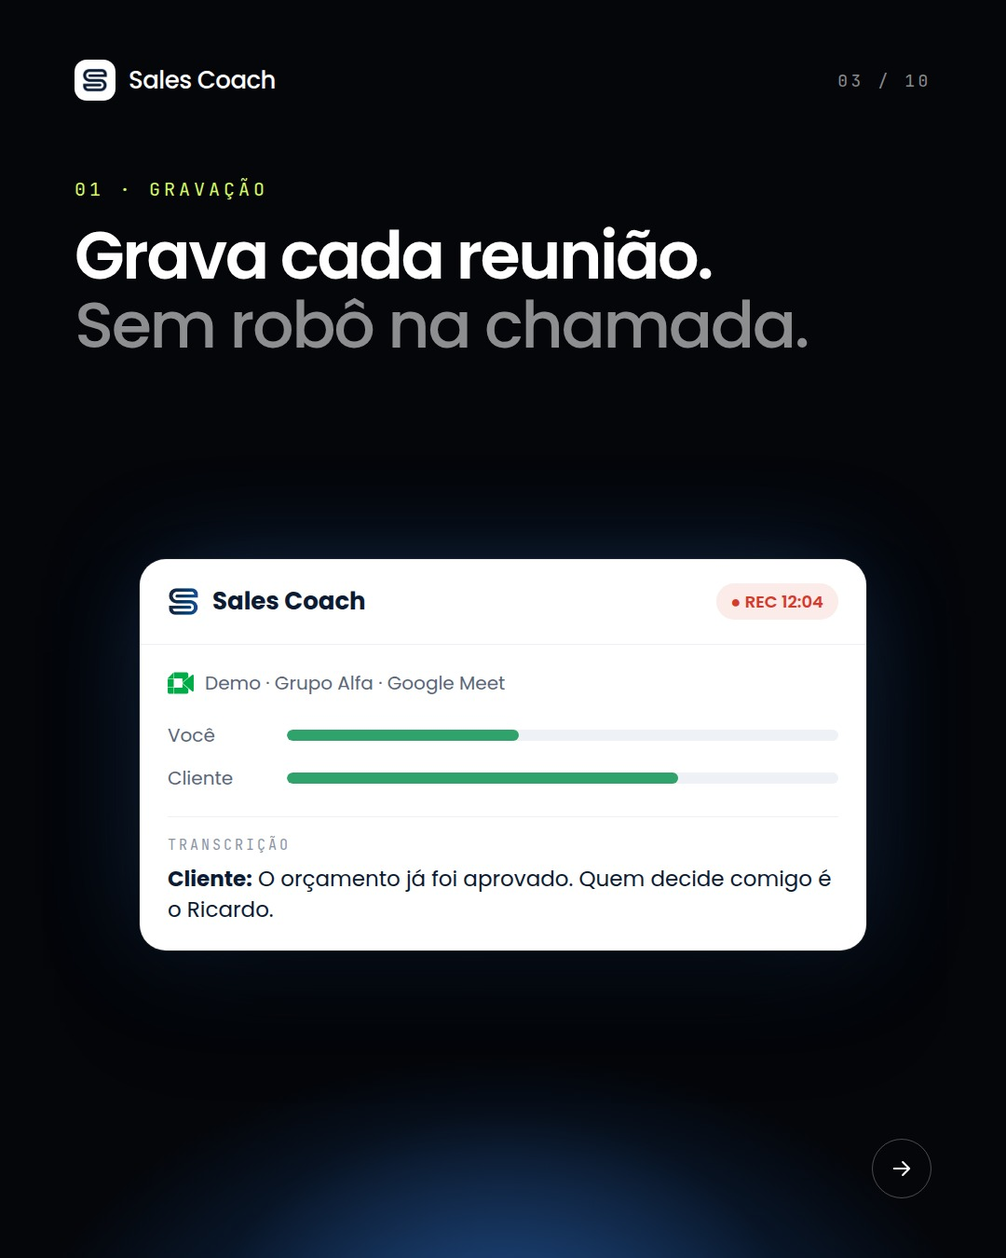
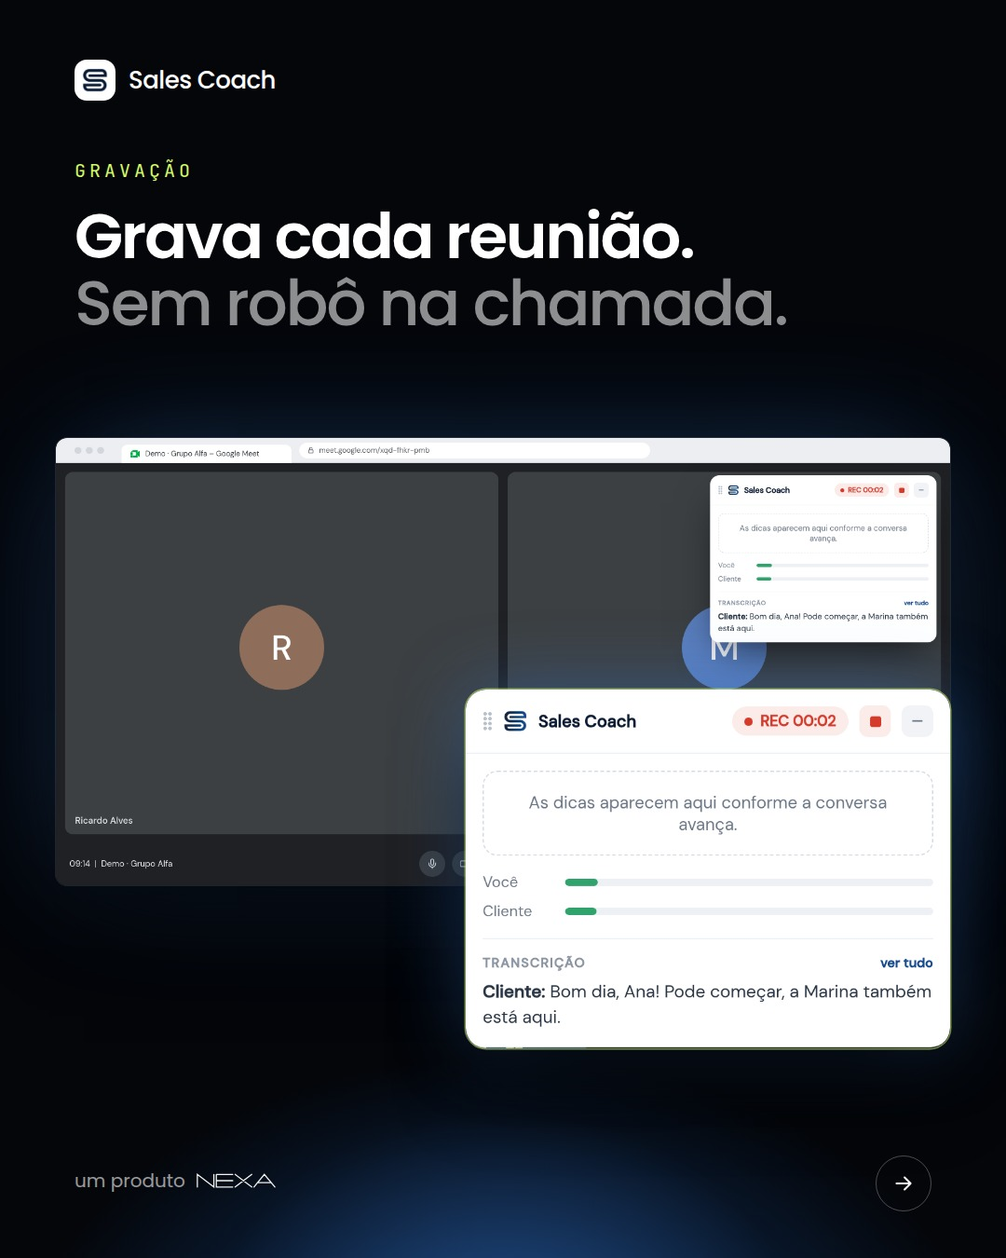
Carrossel Sales Coach: telas reais do app com destaque ampliado, um produto NEXA em todos os cards, sem numeração e card de preço
Claude-Session: https://claude.ai/code/session_01D69rV6pxRKedanUm525i1S

diff --git a/social/post-salescoach-delegue/carrossel.html b/social/post-salescoach-delegue/carrossel.html
@@ -6,10 +6,11 @@
 <link rel="stylesheet" href="poppins.css">
 <link rel="stylesheet" href="fonts.css">
 <style>
-/* Carrossel de 10 cards (1080×1350) que continua o post "Seu time vende. O Sales Coach faz o resto.":
-   cards de foto, de frase e de mockup das funcionalidades, na mesma linguagem premium e minimalista:
-   quase preto com brilho azul embaixo, Poppins branca, lima só como acento, componentes do app grandes.
-   ?s=1..10 escolhe o card. */
+/* Carrossel de 11 cards (1080×1350) que continua o post "Seu time vende. O Sales Coach faz o resto.":
+   cards de foto, de frase e de funcionalidade. As funcionalidades usam as telas reais do app (as mesmas
+   do vídeo de lançamento, capturadas por ../reel-lancamento-sales-sprint/captura-telas.mjs): a janela
+   inteira para dar contexto e o elemento-chave ampliado por cima, para ler no celular.
+   "um produto NEXA" em todos os cards. ?s=1..11 escolhe o card. */
 * { margin: 0; padding: 0; box-sizing: border-box; }
 html, body { width: 1080px; height: 1350px; overflow: hidden; }
 body { position: relative; font-family: 'Poppins', sans-serif; color: #fff; -webkit-font-smoothing: antialiased;
@@ -21,37 +22,40 @@ body.foto { background: #04060A; }
 .card { display: none; position: absolute; inset: 0; }
 .card.on { display: block; }
 
-/* Moldura comum: marca à esquerda, contador à direita, seta para deslizar */
-#bar { position: absolute; left: 80px; right: 80px; top: 64px; display: flex; align-items: center; z-index: 5; }
-#bar .m { display: flex; align-items: center; gap: 14px; font-size: 26px; font-weight: 500; letter-spacing: -.02em; }
-#bar .m i { width: 44px; height: 44px; border-radius: 13px; background: #fff; display: grid; place-items: center; }
-#bar .m i b { width: 28px; height: 26px; background: #071A34; -webkit-mask: url(img/mark-white.png) center / contain no-repeat; }
-#bar .n { margin-left: auto; font-size: 18px; color: rgba(255,255,255,.55); }
-#seta { position: absolute; right: 80px; bottom: 64px; width: 64px; height: 64px; border-radius: 50%; border: 1.5px solid rgba(255,255,255,.28); display: grid; place-items: center; z-index: 5; }
+/* Moldura: marca no topo, seta para deslizar e "um produto NEXA" */
+#bar { position: absolute; left: 80px; top: 64px; display: flex; align-items: center; gap: 14px; font-size: 26px; font-weight: 500; letter-spacing: -.02em; z-index: 5; }
+#bar i { width: 44px; height: 44px; border-radius: 13px; background: #fff; display: grid; place-items: center; }
+#bar i b { width: 28px; height: 26px; background: #071A34; -webkit-mask: url(img/mark-white.png) center / contain no-repeat; }
+#seta { position: absolute; right: 80px; bottom: 50px; width: 60px; height: 60px; border-radius: 50%; border: 1.5px solid rgba(255,255,255,.28); display: grid; place-items: center; z-index: 5; }
+#nexa { position: absolute; left: 80px; bottom: 68px; display: flex; align-items: center; gap: 12px; font-size: 20px; color: rgba(255,255,255,.6); z-index: 5; }
+#nexa img { height: 16px; }
+#nexa.topo { left: 0; right: 0; bottom: auto; top: 70px; justify-content: center; text-shadow: 0 1px 12px rgba(0,0,0,.5); }
 
 /* Tipografia */
 .olho { font-size: 20px; color: #d4f969; }
-.tit { font-size: 70px; font-weight: 600; line-height: 1.06; letter-spacing: -.035em; }
+.tit { font-size: 68px; font-weight: 600; line-height: 1.06; letter-spacing: -.035em; }
 .tit .dim { font-weight: 500; }
 .txt { font-size: 30px; line-height: 1.4; color: rgba(255,255,255,.62); letter-spacing: -.01em; }
-.topo { position: absolute; left: 80px; right: 80px; top: 190px; }
+.topo { position: absolute; left: 80px; right: 80px; top: 170px; }
 
-/* Superfícies do app */
-.ui { position: absolute; background: #fff; color: #0B1B33; border-radius: 28px; box-shadow: 0 0 0 1px rgba(255,255,255,.08), 0 60px 120px -40px rgba(0,0,0,.8), 0 0 120px -20px rgba(63,140,240,.35); }
-.chip { display: inline-flex; align-items: center; gap: 8px; font-size: 18px; font-weight: 600; padding: 6px 16px; border-radius: 999px; }
-.bar { height: 12px; border-radius: 8px; background: #EEF1F5; overflow: hidden; } .bar i { display: block; height: 100%; border-radius: 8px; background: #15498D; }
+/* Telas reais: a janela do app e o destaque ampliado */
+.janela { position: absolute; left: 60px; top: 470px; width: 960px; border-radius: 12px;
+  box-shadow: 0 0 0 1px rgba(255,255,255,.1), 0 50px 100px -30px rgba(0,0,0,.85), 0 0 140px -30px rgba(63,140,240,.45); }
+.dest { position: absolute; border-radius: 22px; box-shadow: 0 0 0 1.5px rgba(212,249,105,.55), 0 50px 90px -20px rgba(0,0,0,.85), 0 0 80px -10px rgba(63,140,240,.5); }
 
 /* Fotos */
 .ft { position: absolute; inset: 0; background-size: cover; background-position: 50% 100%; }
 .ft::after { content: ""; position: absolute; inset: 0; background: linear-gradient(180deg, rgba(3,5,8,.75) 0%, rgba(3,5,8,.45) 28%, rgba(3,5,8,0) 55%); }
+.ft.base::after { background: linear-gradient(180deg, rgba(3,5,8,.75) 0%, rgba(3,5,8,.45) 28%, rgba(3,5,8,0) 50%, rgba(3,5,8,0) 72%, rgba(3,5,8,.7) 100%); }
 </style>
 </head>
 <body>
-<div id="bar"><div class="m"><i><b></b></i>Sales Coach</div><div class="n mono" id="num"></div></div>
-<div id="seta"><svg width="28" height="28" viewBox="0 0 24 24" fill="none" stroke="#fff" stroke-width="1.8" stroke-linecap="round" stroke-linejoin="round"><path d="M5 12h14M13 6l6 6-6 6"/></svg></div>
+<div id="bar"><i><b></b></i>Sales Coach</div>
+<div id="seta"><svg width="26" height="26" viewBox="0 0 24 24" fill="none" stroke="#fff" stroke-width="1.8" stroke-linecap="round" stroke-linejoin="round"><path d="M5 12h14M13 6l6 6-6 6"/></svg></div>
+<div id="nexa"><span>um produto</span><img src="img/nexa-claro.svg" alt="NEXA"></div>
 
-<!-- 1 · Capa (foto) -->
-<section class="card" data-foto>
+<!-- Capa (foto) -->
+<section class="card" data-foto data-nexa-topo>
   <div class="ft" style="background-image:url(fotos/homem.jpg)"></div>
   <div style="position:absolute;left:0;right:0;top:170px;text-align:center">
     <div style="display:inline-flex;align-items:center;gap:26px"><span style="width:104px;height:104px;border-radius:30px;background:#fff;display:grid;place-items:center"><b style="width:66px;height:62px;background:#071A34;-webkit-mask:url(img/mark-white.png) center/contain no-repeat"></b></span><span style="font-size:92px;font-weight:500;letter-spacing:-.03em">Sales Coach</span></div>
@@ -59,7 +63,7 @@ body.foto { background: #04060A; }
   </div>
 </section>
 
-<!-- 2 · Frase -->
+<!-- Frase -->
 <section class="card">
   <div style="position:absolute;left:80px;right:80px;top:330px">
     <div class="txt" style="font-size:40px">Seu time fez</div>
@@ -70,109 +74,51 @@ body.foto { background: #04060A; }
   </div>
 </section>
 
-<!-- 3 · Grava (mockup) -->
-<section class="card">
-  <div class="topo"><div class="olho mono">01 · Gravação</div><div class="tit" style="margin-top:22px">Grava cada reunião.<br><span class="dim">Sem robô na chamada.</span></div></div>
-  <div class="ui" style="left:150px;right:150px;top:600px;padding:0">
-    <div style="display:flex;align-items:center;gap:14px;padding:26px 30px;border-bottom:1px solid #EDF0F4">
-      <img src="img/mark-app.png" alt="" style="width:34px"><b style="font-size:26px">Sales Coach</b>
-      <span class="chip" style="margin-left:auto;color:#D63A2B;background:rgba(214,58,43,.1)">● REC 12:04</span></div>
-    <div style="padding:26px 30px">
-      <div style="display:flex;align-items:center;gap:12px;font-size:20px;color:#5A6779"><img src="img/googlemeet.svg" alt="" style="width:28px">Demo · Grupo Alfa · Google Meet</div>
-      <div style="display:grid;grid-template-columns:110px 1fr;gap:16px 18px;align-items:center;margin-top:26px;font-size:20px;color:#5A6779">
-        <span>Você</span><div class="bar"><i style="width:42%;background:#2FA36B"></i></div><span>Cliente</span><div class="bar"><i style="width:71%;background:#2FA36B"></i></div></div>
-      <div style="margin-top:26px;padding-top:20px;border-top:1px solid #EDF0F4"><div class="mono" style="font-size:15px;color:#8a94a3">Transcrição</div>
-        <div style="font-size:23px;line-height:1.45;margin-top:10px"><b>Cliente:</b> O orçamento já foi aprovado. Quem decide comigo é o Ricardo.</div></div></div></div>
-</section>
+<!-- Funcionalidades: tela real + destaque -->
+<section class="card" data-tela="c1" data-dest="500,740,520"><div class="topo"><div class="olho mono">Gravação</div><div class="tit" style="margin-top:22px">Grava cada reunião.<br><span class="dim">Sem robô na chamada.</span></div></div></section>
+<section class="card" data-tela="c2" data-dest="520,660,480"><div class="topo"><div class="olho mono">Coach ao vivo</div><div class="tit" style="margin-top:22px">A resposta certa<br><span class="dim">na hora da objeção.</span></div></div></section>
+<section class="card" data-tela="c3" data-dest="380,860,620"><div class="topo"><div class="olho mono">Análise</div><div class="tit" style="margin-top:22px">Nota e diagnóstico<br><span class="dim">de toda reunião.</span></div></div></section>
+<section class="card" data-tela="c4" data-dest="470,640,530"><div class="topo"><div class="olho mono">CRM</div><div class="tit" style="margin-top:22px">O CRM se preenche<br><span class="dim">sozinho.</span></div></div></section>
 
-<!-- 4 · Coach ao vivo (mockup) -->
-<section class="card">
-  <div class="topo"><div class="olho mono">02 · Coach ao vivo</div><div class="tit" style="margin-top:22px">A resposta certa<br><span class="dim">na hora da objeção.</span></div></div>
-  <div class="ui" style="left:150px;right:270px;top:600px;padding:22px 28px;border-radius:24px;font-size:24px;line-height:1.4"><span style="display:block;font-size:17px;color:#5A6779;margin-bottom:6px">Cliente · agora</span>Gostei, mas achei caro para o nosso momento.</div>
-  <div class="ui" style="left:150px;right:150px;top:790px;padding:30px 34px;background:linear-gradient(180deg,#EAF1FC,#F7F9FC)">
-    <div style="display:flex;justify-content:space-between;align-items:center"><span class="chip" style="color:#15498D;background:rgba(21,73,141,.1)">objeção</span><span style="font-size:18px;color:#6b7686">agora</span></div>
-    <div style="margin-top:20px;font-size:18px;font-weight:800;letter-spacing:.1em;color:#15498D">FALE AGORA</div>
-    <div style="margin-top:10px;font-size:36px;font-weight:600;line-height:1.3;letter-spacing:-.01em">Pergunte quanto custa hoje uma proposta que esfria, antes de falar em desconto.</div>
-    <div style="margin-top:16px;font-size:20px;color:#6b7686">Só o vendedor vê.</div></div>
-</section>
-
-<!-- 5 · Análise (mockup) -->
-<section class="card">
-  <div class="topo"><div class="olho mono">03 · Análise</div><div class="tit" style="margin-top:22px">Nota e diagnóstico<br><span class="dim">de toda reunião.</span></div></div>
-  <div class="ui" style="left:150px;right:150px;top:560px;padding:26px 34px;color:#fff;background:linear-gradient(135deg,#071A34,#15498D)">
-    <div style="font-size:21px;opacity:.85">Score Geral</div>
-    <div style="display:flex;align-items:baseline;gap:14px;margin-top:4px"><b style="font-size:96px;font-weight:700;letter-spacing:-.03em;line-height:1">86</b><span style="font-size:26px;opacity:.8">de 100</span><span class="chip" style="margin-left:auto;background:rgba(255,255,255,.14);color:#fff">🔥 Quente</span></div></div>
-  <div class="ui" style="left:150px;right:150px;top:790px;padding:26px 34px">
-    <div style="display:flex;justify-content:space-between;font-size:22px;font-weight:600"><span>BANT</span><span style="color:#15498D">86/100</span></div>
-    ${0}
-  </div>
-</section>
-
-<!-- 6 · CRM (mockup) -->
-<section class="card">
-  <div class="topo"><div class="olho mono">04 · CRM</div><div class="tit" style="margin-top:22px">O CRM se preenche<br><span class="dim">sozinho.</span></div></div>
-  <div class="ui" style="left:150px;right:150px;top:590px;padding:30px 34px;font-family:'DM Sans'">
-    <div style="display:flex;align-items:center;gap:12px;font-size:19px;color:#516F90"><img src="img/hubspot.svg" alt="" style="height:26px">Negócios › Grupo Alfa – Expansão</div>
-    <div style="font-size:34px;font-weight:500;color:#213343;margin-top:14px">Grupo Alfa – Expansão</div>
-    <div id="crm" style="margin-top:14px"></div>
-    <div style="display:flex;justify-content:space-between;align-items:center;margin-top:16px;padding:16px 18px;border-radius:14px;background:#F5F8FA;font-size:21px;color:#213343"><span>Tarefa: Enviar proposta · 24/10</span><span class="chip" style="color:#237A55;background:rgba(35,122,85,.12)">criada</span></div></div>
-</section>
-
-<!-- 7 · Treino (foto + mockup) -->
+<!-- Treino (foto + tela real) -->
 <section class="card" data-foto>
-  <div class="ft" style="background-image:url(fotos/mulher.jpg)"></div>
-  <div class="topo" style="top:180px;text-align:center"><div class="olho mono">05 · Treino</div><div class="tit" style="margin-top:22px;text-shadow:0 2px 30px rgba(0,0,0,.4)">Treine antes do<br>cliente de verdade.</div></div>
-  <div class="ui" style="left:80px;bottom:150px;width:440px;padding:24px 28px;color:#fff;background:linear-gradient(135deg,#071A34,#15498D)">
-    <div style="font-size:19px;opacity:.85">Score do treino</div>
-    <div style="display:flex;align-items:baseline;gap:12px"><b style="font-size:76px;font-weight:700;line-height:1.05">81</b><span style="font-size:22px;opacity:.8">de 100</span><span class="chip" style="margin-left:auto;background:#d4f969;color:#071A34">+19</span></div>
-    <div style="font-size:18px;opacity:.8">Cliente simulado, por voz</div></div>
+  <div class="ft base" style="background-image:url(fotos/mulher.jpg)"></div>
+  <div class="topo" style="top:180px;text-align:center"><div class="olho mono">Treino</div><div class="tit" style="margin-top:22px;text-shadow:0 2px 30px rgba(0,0,0,.4)">Treine antes do<br>cliente de verdade.</div></div>
+  <img class="dest" src="telas/c5-destaque.png" alt="" style="left:80px;top:1000px;width:520px">
 </section>
 
-<!-- 8 · Gestão (mockup) -->
-<section class="card">
-  <div class="topo"><div class="olho mono">06 · Gestão</div><div class="tit" style="margin-top:22px">Pergunte sobre<br><span class="dim">todas as reuniões.</span></div></div>
-  <div class="ui" style="left:150px;right:150px;top:590px;overflow:hidden">
-    <div style="padding:24px 30px;color:#fff;background:linear-gradient(135deg,#071A34,#15498D);display:flex;align-items:center;gap:12px;font-size:24px;font-weight:600"><span id="ic-sp"></span>Assistente de vendas</div>
-    <div style="padding:28px 30px;display:flex;flex-direction:column;gap:18px">
-      <div style="align-self:flex-end;max-width:80%;padding:18px 22px;border-radius:22px 22px 6px 22px;color:#fff;background:linear-gradient(135deg,#071A34,#15498D);font-size:23px;line-height:1.4">Quais objeções mais aparecem nas reuniões do time?</div>
-      <div style="max-width:92%;padding:18px 22px;border-radius:22px 22px 22px 6px;background:#EEF1F5;font-size:23px;line-height:1.45">Preço aparece em <b>31 reuniões</b> e "já temos ferramenta" em <b>18</b>. Quem melhor contorna preço é o Bruno (nota 84).</div></div></div>
-</section>
+<section class="card" data-tela="c6" data-dest="90,880,900"><div class="topo"><div class="olho mono">Argumentos</div><div class="tit" style="margin-top:22px">O argumento certo<br><span class="dim">para cada lead.</span></div></div></section>
+<section class="card" data-tela="c7" data-dest="580,620,440"><div class="topo"><div class="olho mono">Gestão</div><div class="tit" style="margin-top:22px">Pergunte sobre<br><span class="dim">todas as reuniões.</span></div></div></section>
 
-<!-- 9 · Frase -->
+<!-- Frase -->
 <section class="card">
   <div style="position:absolute;left:80px;right:80px;top:420px">
     <div style="font-size:124px;font-weight:600;letter-spacing:-.05em;line-height:1.02">Cada reunião<br>vira <span style="background:linear-gradient(transparent 70%, rgba(212,249,105,.9) 70%, rgba(212,249,105,.9) 88%, transparent 88%)">método.</span></div>
     <div class="mono dim" style="font-size:20px;margin-top:64px;line-height:2">Grava · Sopra · Avalia · Preenche · Treina</div></div>
 </section>
 
-<!-- 10 · CTA -->
-<section class="card">
-  <div style="position:absolute;left:0;right:0;top:330px;text-align:center">
-    <span style="display:inline-grid;place-items:center;width:150px;height:150px;border-radius:42px;background:#fff;box-shadow:0 0 120px -10px rgba(63,140,240,.6)"><b style="width:94px;height:88px;background:#071A34;-webkit-mask:url(img/mark-white.png) center/contain no-repeat"></b></span>
-    <div style="font-size:96px;font-weight:500;letter-spacing:-.035em;margin-top:44px;line-height:1">Sales Coach</div>
-    <div class="txt" style="margin-top:28px;font-size:34px">Um coach em cada reunião do seu time.</div>
-    <div style="margin-top:70px;display:inline-flex;align-items:center;gap:26px">
-      <span style="background:#fff;color:#071A34;font-size:28px;font-weight:600;padding:22px 44px;border-radius:999px">Cadastre-se</span>
-      <span style="font-size:26px;color:rgba(255,255,255,.7)">a partir de <b style="color:#fff;font-weight:600">R$ 89</b>/mês por usuário</span></div>
-    <div style="margin-top:120px;display:flex;justify-content:center;align-items:center;gap:12px;font-size:20px;color:rgba(255,255,255,.5)">um produto <img src="img/nexa-claro.svg" alt="NEXA" style="height:16px"></div></div>
+<!-- Preço -->
+<section class="card" data-sem-bar>
+  <div style="position:absolute;left:0;right:0;top:220px;text-align:center">
+    <span style="display:inline-grid;place-items:center;width:120px;height:120px;border-radius:34px;background:#fff;box-shadow:0 0 120px -10px rgba(63,140,240,.6)"><b style="width:76px;height:71px;background:#071A34;-webkit-mask:url(img/mark-white.png) center/contain no-repeat"></b></span>
+    <div style="font-size:64px;font-weight:500;letter-spacing:-.03em;margin-top:30px;line-height:1">Sales Coach</div>
+    <div class="txt" style="margin-top:110px;font-size:34px">a partir de</div>
+    <div style="margin-top:8px;display:inline-flex;align-items:flex-start;gap:10px;line-height:1"><span style="font-size:58px;font-weight:500;margin-top:22px">R$</span><span style="font-size:200px;font-weight:600;letter-spacing:-.05em">89</span><span style="font-size:76px;font-weight:600;margin-top:22px">,90</span></div>
+    <div class="txt" style="font-size:34px;margin-top:6px">por usuário/mês</div>
+    <div style="margin-top:44px;display:inline-flex;align-items:center;gap:14px;font-size:30px;font-weight:500;padding:14px 30px;border-radius:999px;background:rgba(212,249,105,.12);color:#d4f969;box-shadow:inset 0 0 0 1.5px rgba(212,249,105,.5)">Sem limites de uso</div>
+    <div style="margin-top:64px"><span style="display:inline-block;background:#fff;color:#071A34;font-size:30px;font-weight:600;padding:22px 52px;border-radius:999px">Cadastre-se</span></div></div>
 </section>
 
-<script src="icones.js"></script>
 <script>
-const ic = (n, s = 26) => `<svg width="${s}" height="${s}" viewBox="0 0 24 24" fill="none" stroke="currentColor" stroke-width="1.9" stroke-linecap="round" stroke-linejoin="round">${ICONES[n] || ''}</svg>`;
-document.getElementById('ic-sp').innerHTML = ic('sparkles');
-// BANT do card 5
-document.querySelectorAll('.card')[4].querySelector('.ui:last-child').innerHTML = document.querySelectorAll('.card')[4].querySelector('.ui:last-child').innerHTML.replace('${0}',
-  [['Budget', 22, 'Orçamento aprovado no trimestre'], ['Authority', 23, 'O sócio que decide estava na reunião'], ['Need', 24, 'Propostas esfriam sem acompanhamento'], ['Timeline', 17, 'Quer resolver até o fim do mês']]
-  .map(([n, v, r]) => `<div style="margin-top:16px"><div style="display:flex;justify-content:space-between;font-size:20px;font-weight:500"><span>${n}</span><span>${v}/25</span></div><div class="bar" style="margin-top:8px"><i style="width:${v * 4}%"></i></div><div style="font-size:16px;color:#5A6779;font-style:italic;margin-top:5px">${r}</div></div>`).join(''));
-// Campos do CRM do card 6
-document.getElementById('crm').innerHTML = [['Nota da reunião', '86'], ['Temperatura', 'Quente'], ['Próximo passo', 'Enviar proposta ao Ricardo'], ['Data do próximo passo', '24/10/2026']]
-  .map(([l, v]) => `<div style="display:grid;grid-template-columns:260px 1fr auto;gap:14px;align-items:center;padding:15px 16px;border-radius:12px;background:#F3FBE3;margin-top:10px;font-size:21px"><span style="color:#516F90">${l}</span><b style="font-weight:500;color:#213343">${v}</b><span class="chip" style="font-size:14px;color:#237A55;background:rgba(35,122,85,.12)">Sales Coach</span></div>`).join('');
 const n = +(new URLSearchParams(location.search).get('s') || 1), cards = document.querySelectorAll('.card'), c = cards[n - 1];
 c.classList.add('on'); document.body.classList.toggle('foto', c.hasAttribute('data-foto'));
-document.getElementById('num').textContent = `${String(n).padStart(2, '0')} / ${cards.length}`;
-document.getElementById('bar').style.display = n === 1 || n === cards.length ? 'none' : 'flex';   // capa e CTA já têm a marca grande
+const id = c.dataset.tela;
+if (id) { const [x, y, w] = c.dataset.dest.split(',').map(Number);
+  c.insertAdjacentHTML('beforeend', `<img class="janela" src="telas/${id}-janela.png" alt=""><img class="dest" src="telas/${id}-destaque.png" alt="" style="left:${x}px;top:${y}px;width:${w}px">`); }
+document.getElementById('bar').style.display = n === 1 || c.hasAttribute('data-sem-bar') ? 'none' : 'flex';   // capa e preço já têm a marca grande
 document.getElementById('seta').style.display = n === cards.length ? 'none' : 'grid';
+document.getElementById('nexa').classList.toggle('topo', c.hasAttribute('data-nexa-topo'));
+if (n === cards.length) Object.assign(document.getElementById('nexa').style, { left: '0', right: '0', justifyContent: 'center' });
 window.ready = Promise.all([document.fonts.ready, ...[...document.images].map(i => i.complete ? 0 : new Promise(r => { i.onload = i.onerror = r; }))]);
 </script>
 </body>

diff --git a/social/reel-lancamento-sales-sprint/index.html b/social/reel-lancamento-sales-sprint/index.html
@@ -218,7 +218,7 @@ body { position: relative; font-family: 'DM Sans', sans-serif; color: var(--tint
 .campo2 { position: absolute; display: flex; align-items: center; gap: 26px; border-radius: 999px; background: #fff; box-shadow: 0 40px 90px -30px rgba(0,0,0,.55); font-family: 'Poppins'; color: #071A34; }
 .campo2 .mais { width: 64px; height: 64px; border-radius: 50%; display: grid; place-items: center; font-size: 46px; font-weight: 300; color: #071A34; flex: 0 0 auto; }
 .campo2 .env { margin-left: auto; width: 74px; height: 74px; border-radius: 50%; background: #15498D; display: grid; place-items: center; color: #fff; flex: 0 0 auto; }
-.chip { position: absolute; left: 0; top: 0; white-space: nowrap; padding: 8px 20px; border-radius: 14px; background: #EAF1FC; color: #15498D; font-size: 42px; font-weight: 500; }
+#metchip .chip { position: absolute; left: 0; top: 0; white-space: nowrap; padding: 8px 20px; border-radius: 14px; background: #EAF1FC; color: #15498D; font-size: 42px; font-weight: 500; }
 .seta { position: absolute; left: 0; top: 0; width: 44px; height: 44px; }
 
 /* Fecho */

diff --git a/social/post-salescoach-delegue/README.md b/social/post-salescoach-delegue/README.md
@@ -8,8 +8,11 @@ Frase: "Seu time vende. O Sales Coach faz o resto." Legenda e CTA em `legenda.md
 - `post.html`: a arte (`?foto=homem|mulher`, `?f=45` para 1080×1350 ou `?f=11` para 1080×1080).
 - `node render.mjs` gera `out/post-<foto>-<4x5|1x1>.jpg`.
 
-## Carrossel (10 cards, 1080×1350)
-`carrossel.html?s=1..10` e `node render-carrossel.mjs` → `out/carrossel/card-01.jpg … card-10.jpg`.
-Ordem: capa (foto) · frase "412 reuniões / Você ouviu 3." · Gravação · Coach ao vivo · Análise · CRM
-(mockups) · Treino (foto + mockup) · Gestão (mockup) · frase "Cada reunião vira método." · CTA.
-Legenda do carrossel no fim do `legenda.md`.
+## Carrossel (11 cards, 1080×1350)
+`carrossel.html?s=1..11` e `node render-carrossel.mjs` → `out/carrossel/card-01.jpg … card-11.jpg`.
+Ordem: capa (foto) · frase "412 reuniões / Você ouviu 3." · Gravação · Coach ao vivo · Análise · CRM ·
+Treino (foto + tela) · Argumentos · Gestão · frase "Cada reunião vira método." · preço (R$ 89,90 por
+usuário/mês, sem limites de uso, Cadastre-se). "um produto NEXA" em todos os cards, sem numeração.
+As funcionalidades usam as telas reais do app (as mesmas do vídeo): `telas/` sai de
+`node captura-telas.mjs ../post-salescoach-delegue/telas`, rodado em `../reel-lancamento-sales-sprint`
+(a janela inteira e o elemento-chave de cada tela, em 2x). Legenda do carrossel no fim do `legenda.md`.

diff --git a/social/post-salescoach-delegue/legenda.md b/social/post-salescoach-delegue/legenda.md
@@ -6,7 +6,7 @@ O Sales Coach é um coach de IA que entra em cada reunião do seu time. Ele grav
 
 Seu time vende. O Sales Coach faz o resto.
 
-A partir de R$ 89/mês por usuário. Um produto NEXA.
+A partir de R$ 89,90 por usuário/mês, sem limites de uso. Um produto NEXA.
 
 **Botão (CTA):** Cadastre-se · link: salescoach.grougp.com.br (ou a página do anúncio)
 
@@ -14,7 +14,7 @@ A partir de R$ 89/mês por usuário. Um produto NEXA.
 
 ---
 
-# Legenda · carrossel (10 cards, `out/carrossel/`)
+# Legenda · carrossel (11 cards, `out/carrossel/`)
 
 Seu time fez 412 reuniões este mês. Quantas você ouviu?
 
@@ -26,7 +26,7 @@ O Sales Coach é o coach de IA que entra em cada reunião do seu time:
 → Treina o time com um cliente simulado, por voz
 → E responde ao gestor sobre todas as reuniões
 
-Cada reunião vira método. A partir de R$ 89/mês por usuário.
+Cada reunião vira método. A partir de R$ 89,90 por usuário/mês, sem limites de uso.
 Arraste para o lado e conheça. Um produto NEXA.
 
 **Botão (CTA):** Cadastre-se
